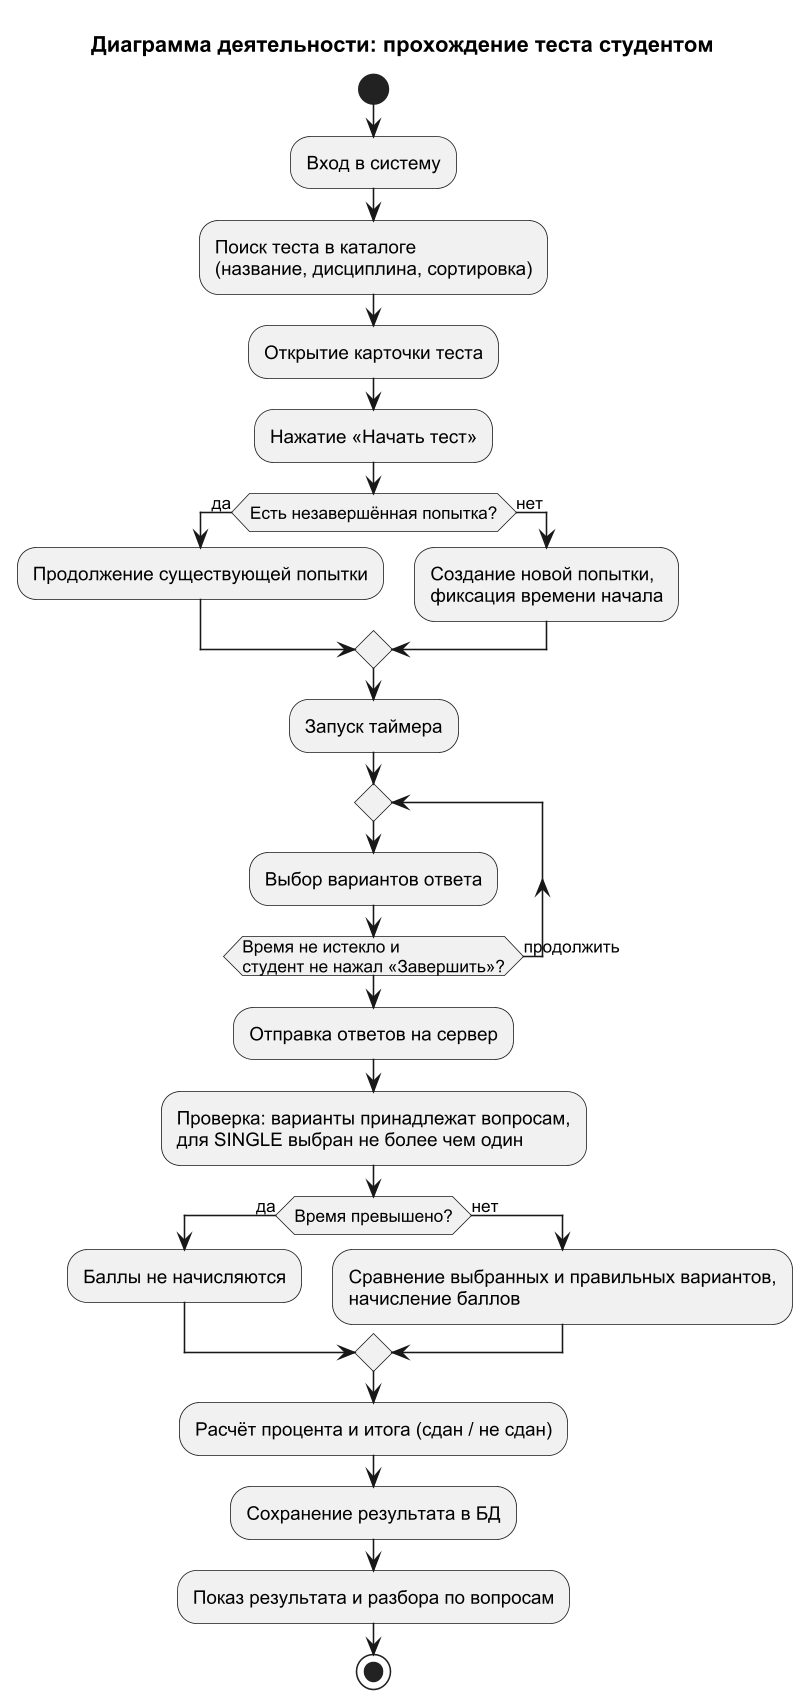
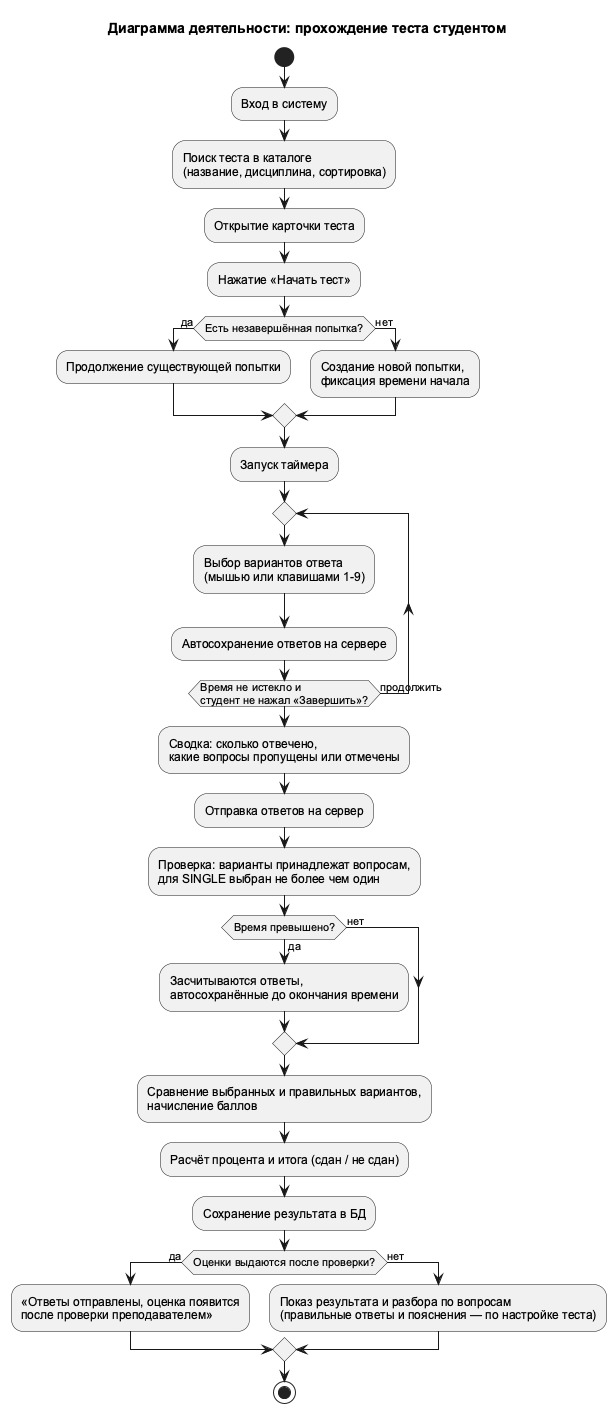
Схемы и README под текущую версию: автосохранение, пояснения, публикация оценок, качество вопросов
- ER: consent_at, explanation, show_answers, manual_release, retake_delay_minutes, released, draft
- классы, деятельность и варианты использования дополнены новыми функциями
- README: оформление «Академия», актуальное описание мобильной версии

Changed region(s): [[0.0308, 0.0, 0.987, 0.9965]]

diff --git a/README.md b/README.md
@@ -60,7 +60,8 @@ REST API и автотестами.
 - **Аналитика** — успеваемость по тестам, сложность вопросов, сравнение групп, рейтинг студентов
 - **Журнал действий** — кто и когда изменил тесты, расписание, учебный план, пользователей
 - **Удобное прохождение** — панель с номерами вопросов, флажок «вернуться позже», сводка перед отправкой, ответы клавишами 1–9
-- **Мобильная версия** — боковое меню превращается в выезжающую панель, все страницы адаптированы
+- **Оформление «Академия»** — тёмно-синий и золото, заголовки с засечками, верхнее меню как у сайтов университетов
+- **Мобильная версия** — меню прячется в выезжающую панель, все страницы адаптированы
 
 ## 02 — Скриншоты
 
